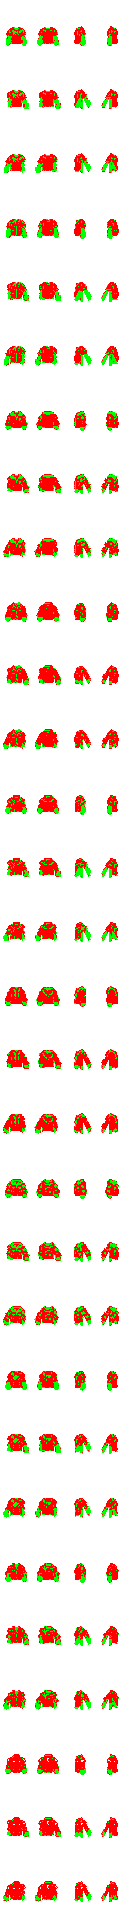
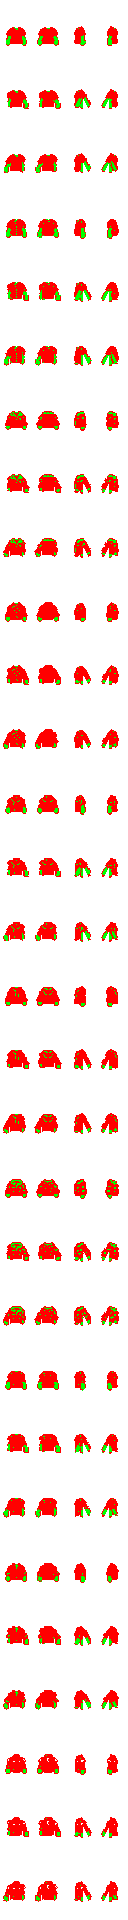
Fix player: head sits on the shoulders, no skin-coloured blotches on clothes
- Head and hair lowered 3px; neck goes behind the collar, chin over it
- Layer masks cleaned so only skin-toned pixels take the skin colour
  (tools/fix_player_masks.py)

Claude-Session: https://claude.ai/code/session_013NFuzCtsXhGx4vnyseTSue

diff --git a/tools/fix_player_masks.py b/tools/fix_player_masks.py
@@ -1,0 +1,22 @@
+"""Fixes the player layer masks: a pixel only counts as skin (green) if the art there is skin-toned.
+Grey details that were marked as skin (collars, seams, buckles) become part of the main colour (red).
+    python3 tools/fix_player_masks.py <project folder>
+"""
+import sys
+from PIL import Image
+folder = sys.argv[1] + "/art/player/"
+for k in ("tops", "bottoms", "hair"):
+    art = Image.open(folder + k + ".png").convert("RGBA")
+    mask = Image.open(folder + k + "_mask.png").convert("RGBA")
+    ap, mp = art.load(), mask.load()
+    changed = 0
+    for y in range(art.height):
+        for x in range(art.width):
+            mr, mg, mb, ma = mp[x, y]
+            if ma and not mr and mg:
+                r, g, b, a = ap[x, y]
+                if not (r - b >= 24 and r > g):          # not a warm skin tone
+                    mp[x, y] = (255, 0, 0, 255)
+                    changed += 1
+    mask.save(folder + k + "_mask.png")
+    print(k, "mask: fixed", changed, "pixels")

diff --git a/README.md b/README.md
@@ -64,7 +64,7 @@ One exception, for `tiles.png` only: when the game gains a new tile, the generat
 | Files | Layout |
 |---|---|
 | `npc_*.png`, `player.png` | Walk sheet: 4 columns (down, up, left, right) by 3 rows (standing, step A, step B). Any frame size with a 1:2 shape works; the game scales a frame to 16 wide. The NPC sheets are 32x64 per frame. `player.png` is only used if the layered player art below is missing. |
-| `player/tops.png`, `bottoms.png`, `faces.png`, `hair.png` and their `_mask.png` | The layered player for the character screen: 4 directions across (down, up, left, right), 10 choices with 3 pose rows each (standing, step A, step B), 32x64 cells; each file is 128x1920. In the mask, red = takes the layer's main colour, green = skin, blue = eyes. `scripts/player_maker.gd` builds the walk sheet from these; the names and colour lists are at the top of that file. Replace the eight files and `player_maker.gd` together. |
+| `player/tops.png`, `bottoms.png`, `faces.png`, `hair.png` and their `_mask.png` | The layered player for the character screen: 4 directions across (down, up, left, right), 10 choices with 3 pose rows each (standing, step A, step B), 32x64 cells; each file is 128x1920. In the mask, red = takes the layer's main colour, green = skin, blue = eyes. `scripts/player_maker.gd` builds the walk sheet from these; the names and colour lists are at the top of that file. Replace the eight files and `player_maker.gd` together. The game lowers the head 3 pixels onto the shoulders and tucks the neck behind the collar (`HEAD_DROP` in that file). `tools/fix_player_masks.py` cleans the masks so only skin-toned pixels count as skin; run it after replacing the layers. |
 | `portrait_*.png` | 6 square pictures in a row: neutral, happy, sad, surprised, love, angry. Any size; shown in a 64x64 box. Currently 128x128 each. |
 | `tiles.png` | 110 columns, each one cell wide and two cells tall (currently 32x64). The lower half is the tile; the upper half is the top of tall objects. A tile is always drawn 16x16 in the world. Slot names are in `tools/build.py`. |
 | `items.png` | 16x16 icons in a row; the order must match `icon` in `scripts/item_data.gd`. |
